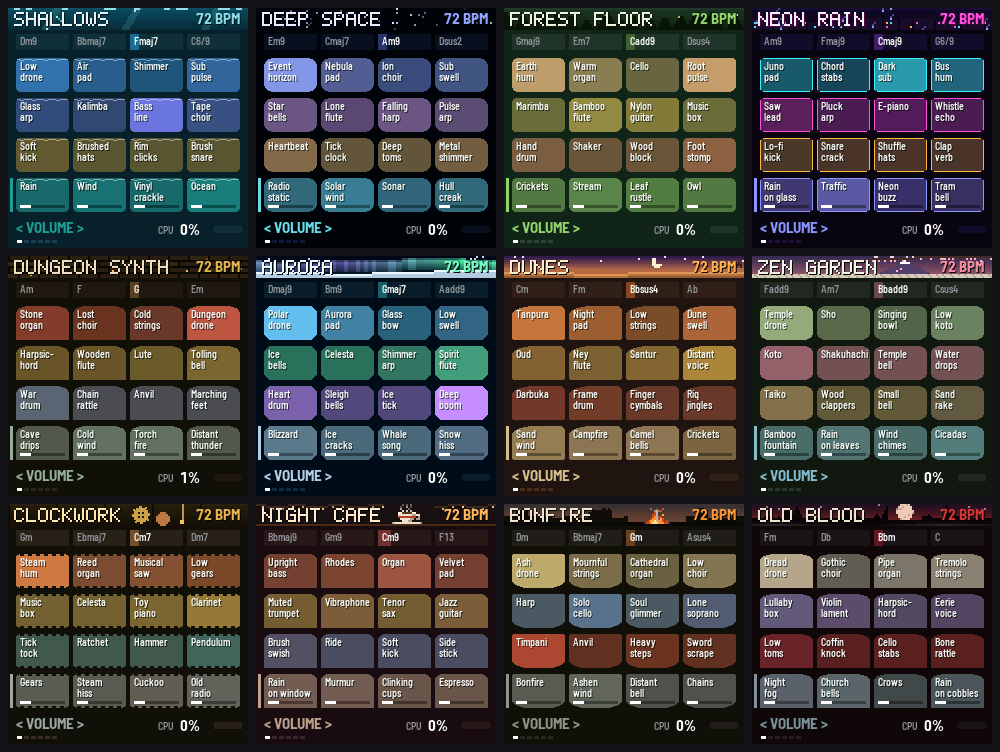
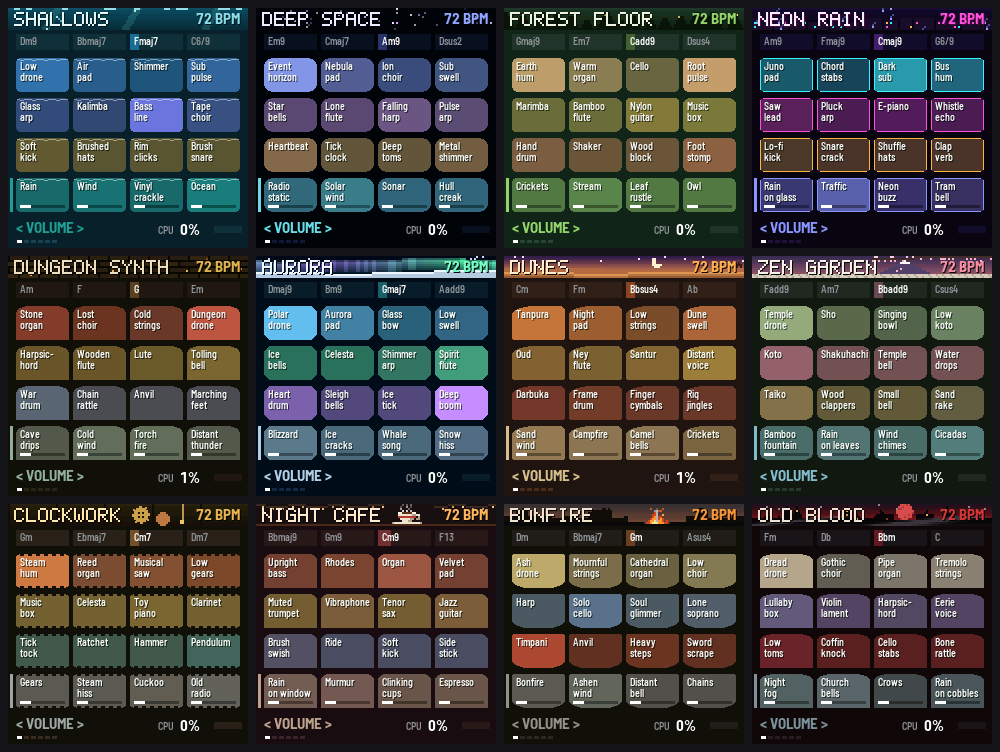
Old Blood: a blood moon, lit windows, fog rolling across the roofs

diff --git a/firmware/art.c b/firmware/art.c
@@ -2,7 +2,7 @@
  * bank's look, after the web app's themes: its palette, an animated banner behind its name (Shallows' light shafts
  * and bubbles, Deep Space's stars, Forest Floor's pines and fireflies, Neon Rain's skyline in the rain, Dungeon
  * Synth's stones and embers; Aurora's northern lights over snow, Dunes' caravan at dusk, Zen Garden's mountain and
- * falling petals, Clockwork's turning gears, Night Cafe's steaming cup of coffee, Bonfire's fire among ruins, Old Blood's moon over spires; the Blank Canvas's watercolours on
+ * falling petals, Clockwork's turning gears, Night Cafe's steaming cup of coffee, Bonfire's fire among ruins, Old Blood's blood moon over spires; the Blank Canvas's watercolours on
  * paper) and the shape of its pools. Everything is drawn procedurally into fm1-base's canvas
  * (gfx.c: cv_rect, cv_pset), in the main loop. Included by app.c. */
 
@@ -495,14 +495,18 @@ static void banner_bonfire(uint32_t t)
     }
 }
 
-/* a gothic city at night: spires and gables black against a sky going red, a great pale moon in the gap, fog drifting
- * along the streets, a crow crossing now and then */
+/* a gothic city at night: spires and gables black against the sky, a great moon in the gap that slowly turns blood
+ * red and back (the sky reddening with it), lit windows (one now and then flickering, each going dark a while), fog
+ * rolling in front of the roofs, a crow crossing now and then */
 static void banner_oldblood(uint32_t t)
 {
-    int32_t x, y, i;
-    int32_t blush = px_tri(t, 24000u) / 3;    /* the moon reddening and paling, slowly */
+    static const uint16_t ROOF = RGB(10, 6, 10);
+    int32_t x, y, i, top[BN_W];
+    int32_t tri = px_tri(t, 40000u);          /* the blood moon: pale a while, red a while, slowly between */
+    int32_t blood = tri < 70 ? 0 : tri > 190 ? 256 : (tri - 70) * 256 / 120;
+    uint16_t low = px_mix(RGB(136, 36, 42), RGB(170, 24, 30), blood);
     for (y = 0; y < BN_H; y++)
-        cv_rect(0, y * 2, 240, 2, px_mix(RGB(36, 16, 32), RGB(136, 36, 42), y * 256 / BN_H));
+        cv_rect(0, y * 2, 240, 2, px_mix(RGB(36, 16, 32), low, y * 256 / BN_H));
     for (i = 0; i < 8; i++) {
         uint32_t h = px_hash((uint32_t)i * 29u + 3u);
         bn_px((int32_t)(h % BN_W), (int32_t)((h >> 8) % 3u), RGB(150, 130, 140));
@@ -511,31 +515,50 @@ static void banner_oldblood(uint32_t t)
         for (x = 71; x <= 81; x++) {
             int32_t dx = (x - 76) * 2, dy = y * 2 - 7;
             if (dx * dx + dy * dy <= 70) {
-                uint16_t c = px_mix(RGB(244, 236, 222), RGB(226, 120, 110), blush);
+                uint16_t c = px_mix(RGB(244, 236, 222), RGB(206, 34, 40), blood);
                 if (((x * 7 + y * 3) % 11) == 0 || (x == 74 && y == 2) || (x == 78 && y == 5))
-                    c = px_mix(c, RGB(120, 80, 90), 70);   /* its seas */
+                    c = px_mix(c, RGB(90, 20, 30), 80);   /* its seas */
                 bn_px(x, y, c);
             }
         }
     for (x = 0; x < BN_W; x++) {              /* the roofline: spires, gables, chimneys */
         uint32_t h = px_hash((uint32_t)(x / 5) * 17u + 11u);
-        int32_t c5 = x % 5, top;
+        int32_t c5 = x % 5;
         if ((h & 7u) == 0u)                   /* a spire: a narrow point, high */
-            top = 1 + (c5 < 2 ? 2 - c5 : c5 - 2) * 2;
+            top[x] = 1 + (c5 < 2 ? 2 - c5 : c5 - 2) * 2;
         else if ((h & 3u) == 1u)              /* a gable */
-            top = 5 + (c5 < 2 ? 2 - c5 : c5 - 2);
+            top[x] = 5 + (c5 < 2 ? 2 - c5 : c5 - 2);
         else
-            top = 6 + (int32_t)((h >> 5) % 2u) - (c5 == 3 && (h & 16u));
-        if (x >= 68 && x <= 84)
-            top = top < 8 ? 8 : top;          /* lower roofs under the moon */
-        for (y = top; y < BN_H; y++)
-            bn_px(x, y, RGB(10, 6, 10));
+            top[x] = 6 + (int32_t)((h >> 5) % 2u) - (c5 == 3 && (h & 16u));
+        if (x >= 71 && x <= 81)
+            top[x] = top[x] < 8 ? 8 : top[x]; /* lower roofs under the moon */
+        else if (x >= 62 && x <= 90)          /* and either side of it, tall houses with their windows in view */
+            top[x] = x == 64 || x == 87 ? 3 : 5 - (x == 65 || x == 86);
+        for (y = top[x]; y < BN_H; y++)
+            bn_px(x, y, ROOF);
     }
-    for (x = 0; x < BN_W; x++) {              /* fog along the streets, drifting */
-        int32_t a = px_tri((uint32_t)x * 60u + t / 4u, 5000u) / 3;
-        bn_px(x, 10, px_mix(RGB(10, 6, 10), RGB(120, 110, 120), a));
-        bn_px(x, 9, px_mix(RGB(10, 6, 10), RGB(120, 110, 120), a / 3));
+    for (x = 2; x < BN_W; x += 5) {           /* windows: about half the houses lit, each dark now and then */
+        uint32_t h = px_hash((uint32_t)x * 31u + 5u);
+        int32_t wy = top[x] + 2;
+        if ((h & 3u) == 3u || wy > 9 || ((t / 7000u + h) % 5u) == 0u)
+            continue;
+        if ((h >> 4) % 4u == 0u && (t / 90u + h) % 17u < 2u)   /* a guttering lamp */
+            bn_px(x, wy, RGB(120, 70, 30));
+        else
+            bn_px(x, wy, RGB(236, 168, 74));
+        if ((h >> 6) & 1u && wy + 2 <= 9)     /* a second window below */
+            bn_px(x, wy + 2, RGB(214, 144, 60));
     }
+    for (y = 6; y < BN_H; y++)                /* wisps of fog rolling across in front of the roofs */
+        for (x = 0; x < BN_W; x++) {
+            int32_t w = px_tri((uint32_t)(x * 90 + y * 900) + t / 6u, 6000u) - 170;
+            int32_t v = px_tri((uint32_t)(x * 55 + y * 400) + t / 9u + 2500u, 9000u) - 190;
+            int32_t a = ((w > 0 ? w : 0) + (v > 0 ? v : 0)) * 3 / 2 + (y - 8) * 12;
+            if (a > 0) {
+                uint16_t under = y >= top[x] ? ROOF : px_mix(RGB(36, 16, 32), low, y * 256 / BN_H);
+                bn_px(x, y, px_mix(under, RGB(132, 120, 132), a > 110 ? 110 : a));
+            }
+        }
     {                                         /* a crow, now and then, crossing the moon */
         uint32_t p = t % 20000u;
         if (p < 6000u) {

diff --git a/docs/DEVELOPMENT.md b/docs/DEVELOPMENT.md
@@ -150,7 +150,7 @@ animated banner behind its name in pixel letters, and the shape of its pools.
 | Clockwork | two gears turning against each other, a pendulum swinging | gear teeth along the edges |
 | Night Café | a cup of coffee on its saucer, steam rising, a string of lights | a café booth: rounded top, square foot |
 | Bonfire | ruined towers against an ashen dusk, a bonfire with a sword thrust in it, embers rising | heater shields |
-| Old Blood | gothic spires under a great moon that slowly reddens, fog in the streets, a crow crossing | lancet windows: a pointed top |
+| Old Blood | gothic spires under a great moon that slowly turns blood red and back, lit windows (one guttering, each going dark now and then), fog rolling across the roofs, a crow crossing | lancet windows: a pointed top |
 
 All of it is drawn procedurally into fm1-base's canvas in the main loop, the banner about ten times a second (4 ms of
 the screen's time each).
